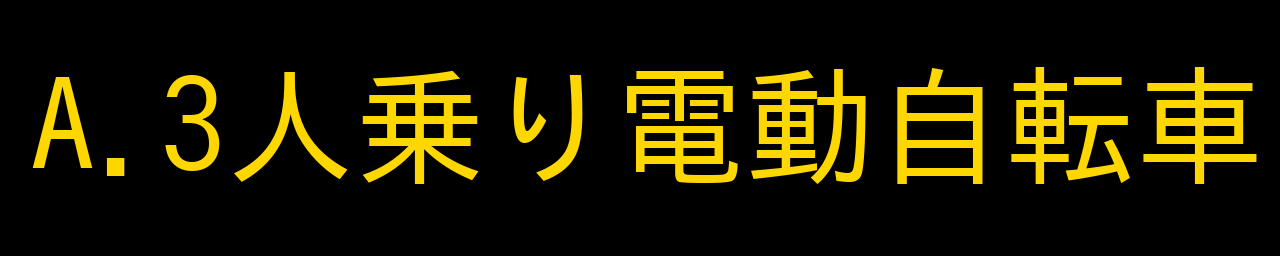
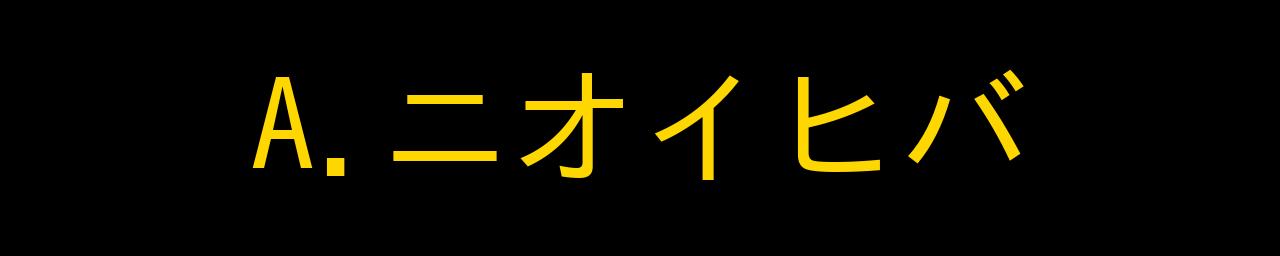
first commit

Changed region(s): [[0.0, 0.25, 1.0, 0.7188]]

diff --git a/video_for_sns/make_string_image.py b/video_for_sns/make_string_image.py
@@ -17,8 +17,8 @@ def main(text, start_x, height, width, font_size, font_name, font_color, output_
 
 if __name__ == '__main__':
     parser = argparse.ArgumentParser(description='make string image')
-    parser.add_argument('--text', type=str, default='A.3人乗り電動自転車')
-    parser.add_argument('--start_x', type=int, default=30)
+    parser.add_argument('--text', type=str, default='A.ニオイヒバ')
+    parser.add_argument('--start_x', type=int, default=250)
     parser.add_argument('--height', type=int, default=256)
     parser.add_argument('--width', type=int, default=1280)
     parser.add_argument('--font_size', type=int, default=130)

diff --git a/README.md b/README.md
@@ -14,14 +14,14 @@
 ## MP4 to jpg
 
 ```shell
-MP4_PATH=~/Desktop/input.mp4
-OUTPUT_IMAGE_DIR=~/Desktop/input_image
+MP4_PATH=/home/kentaro/Desktop/meat.mp4
+OUTPUT_IMAGE_DIR=~/Desktop/meat
 OUTPUT_FRAME_NUM=300
 
 mkdir -p ${OUTPUT_IMAGE_DIR}
 FRAME_NUM=` ffprobe -v error -select_streams v:0 -count_packets -show_entries stream=nb_read_packets -of csv=p=0 ${MP4_PATH} `
 SPACE_FRAME_NUM=` expr ${FRAME_NUM} / ${OUTPUT_FRAME_NUM} `
-ffmpeg -i ${MP4_PATH} -vf thumbnail=${SPACE_FRAME_NUM},setpts=N/TB -r 1 ${OUTPUT_IMAGE_DIR}/frame_%05d.png
+ffmpeg -i ${MP4_PATH} -vf thumbnail=2,setpts=N/TB -r 1 ${OUTPUT_IMAGE_DIR}/frame_%05d.png
 ```
 
 ## Remove except image
@@ -40,7 +40,7 @@ find *.png |awk '{printf "mv \"%s\" frame_%05d.png\n", $0, NR }' |sh
 # Prepare colmap
 
 ```shell
-ns-process-data images --data /home/kentaro/Desktop/input_image --output-dir ~/Desktop/data --verbose 
+ns-process-data images --data /home/kentaro/Desktop/meat --output-dir /home/kentaro/Desktop/meat_data --verbose 
 ```
 
 -----------
@@ -48,12 +48,12 @@ ns-process-data images --data /home/kentaro/Desktop/input_image --output-dir ~/D
 # Train
 
 ```shell
-ns-train nerfacto --data ~/Desktop/data --pipeline.model.predict-normals True
+ns-train nerfacto --data ~/Desktop/meat_data --pipeline.model.predict-normals True
 ```
 
 ## Export mesh
 ```shell
-ns-export poisson --load-config /home/kentaro/Github/vaik-nerfstudio-project/outputs/-home-kentaro-Desktop-data/nerfacto/2022-12-01_093630/config.yml \
+ns-export poisson --load-config /home/kentaro/Github/vaik-nerfstudio-project/outputs/-home-kentaro-Desktop-car_data/nerfacto/2022-12-02_182754/config.yml \
                   --output-dir ~/Desktop/output_mesh
 ```
 
@@ -110,6 +110,7 @@ cd video_for_sns
 - comment
 
 ```
-NeRF（Neural Radiance Fields）により、動画からCGオブジェクトを作成しました！
+本日も、NeRF（Neural Radiance Fields）により、動画からCGオブジェクトを作成しました！
+
 音もつけてます。
 ```
